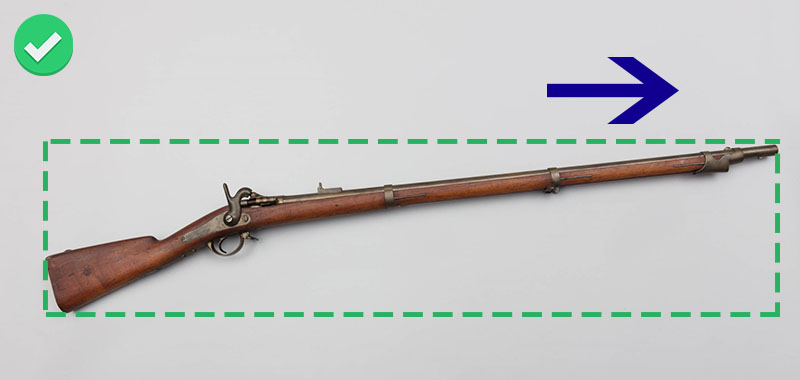
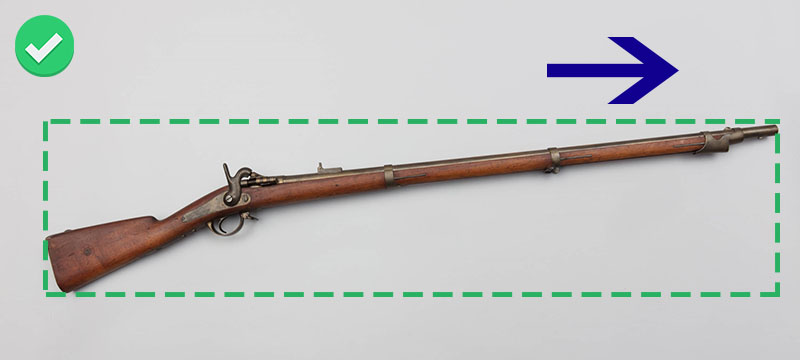
Fix good photo and design in medium screen

diff --git a/frontend/src/components/InstructionsView.vue b/frontend/src/components/InstructionsView.vue
@@ -1,5 +1,5 @@
 <template>
-  <div class="container-alert  col-lg-6  col-xs-9  mx-auto">
+  <div class="container-alert col-lg-6 col-md-8 col-xs-9 mx-auto">
     <div class="fr-alert fr-alert--info">
       <h3 class="fr-alert__title">
         Pour un résultat optimal
@@ -14,7 +14,7 @@
     <div class="text-center">
       <p>{{ store.uploadMessage }}</p>
     </div>
-    <div class="container-img  d-lg-flex">
+    <div class="container-img  d-md-flex">
       <div>
         <img
           src="../assets/good-photo-example.jpg"
@@ -100,12 +100,13 @@
   .container-img {
     justify-content: center;
     text-align: center;
-    padding: 0 1rem;
+    padding: 0 0.5rem;
   }
 
   img {
     max-width: 100%;
-    max-height: 250px;
+    max-height: 200px;
+    padding: 0 0.5rem;
   }
 
   .modal-img-text {
